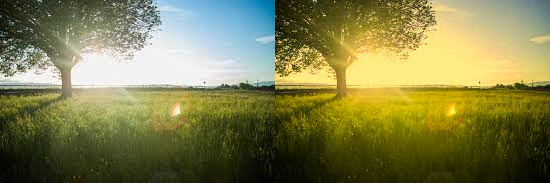
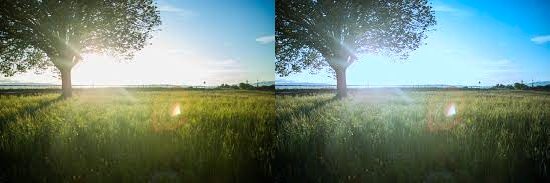
Task16 completed

diff --git a/task16.py b/task16.py
@@ -5,7 +5,7 @@ import numpy as np
 
 
 def show(final):
-    cv.imshow('Теплый', final)
+    cv.imshow('Холодный', final)
     cv.waitKey(0)
     cv.destroyAllWindows()
 
@@ -21,8 +21,8 @@ def white_balance_loops(img):
             l, a, b = result[x, y, :]
             # fix for CV correction
             l *= 100 / 255.0
-            result[x, y, 1] = a - ((avg_a - 128) * (l / 100.0) * 1.1)
-            result[x, y, 2] = b - ((avg_b - 195) * (l / 100.0) * 1.1)
+            result[x, y, 1] = a - ((avg_a - 122) * (l / 100.0) * 1.1)
+            result[x, y, 2] = b - ((avg_b - 108) * (l / 100.0) * 1.1)
     result = cv.cvtColor(result, cv.COLOR_LAB2BGR)
     return result
 
